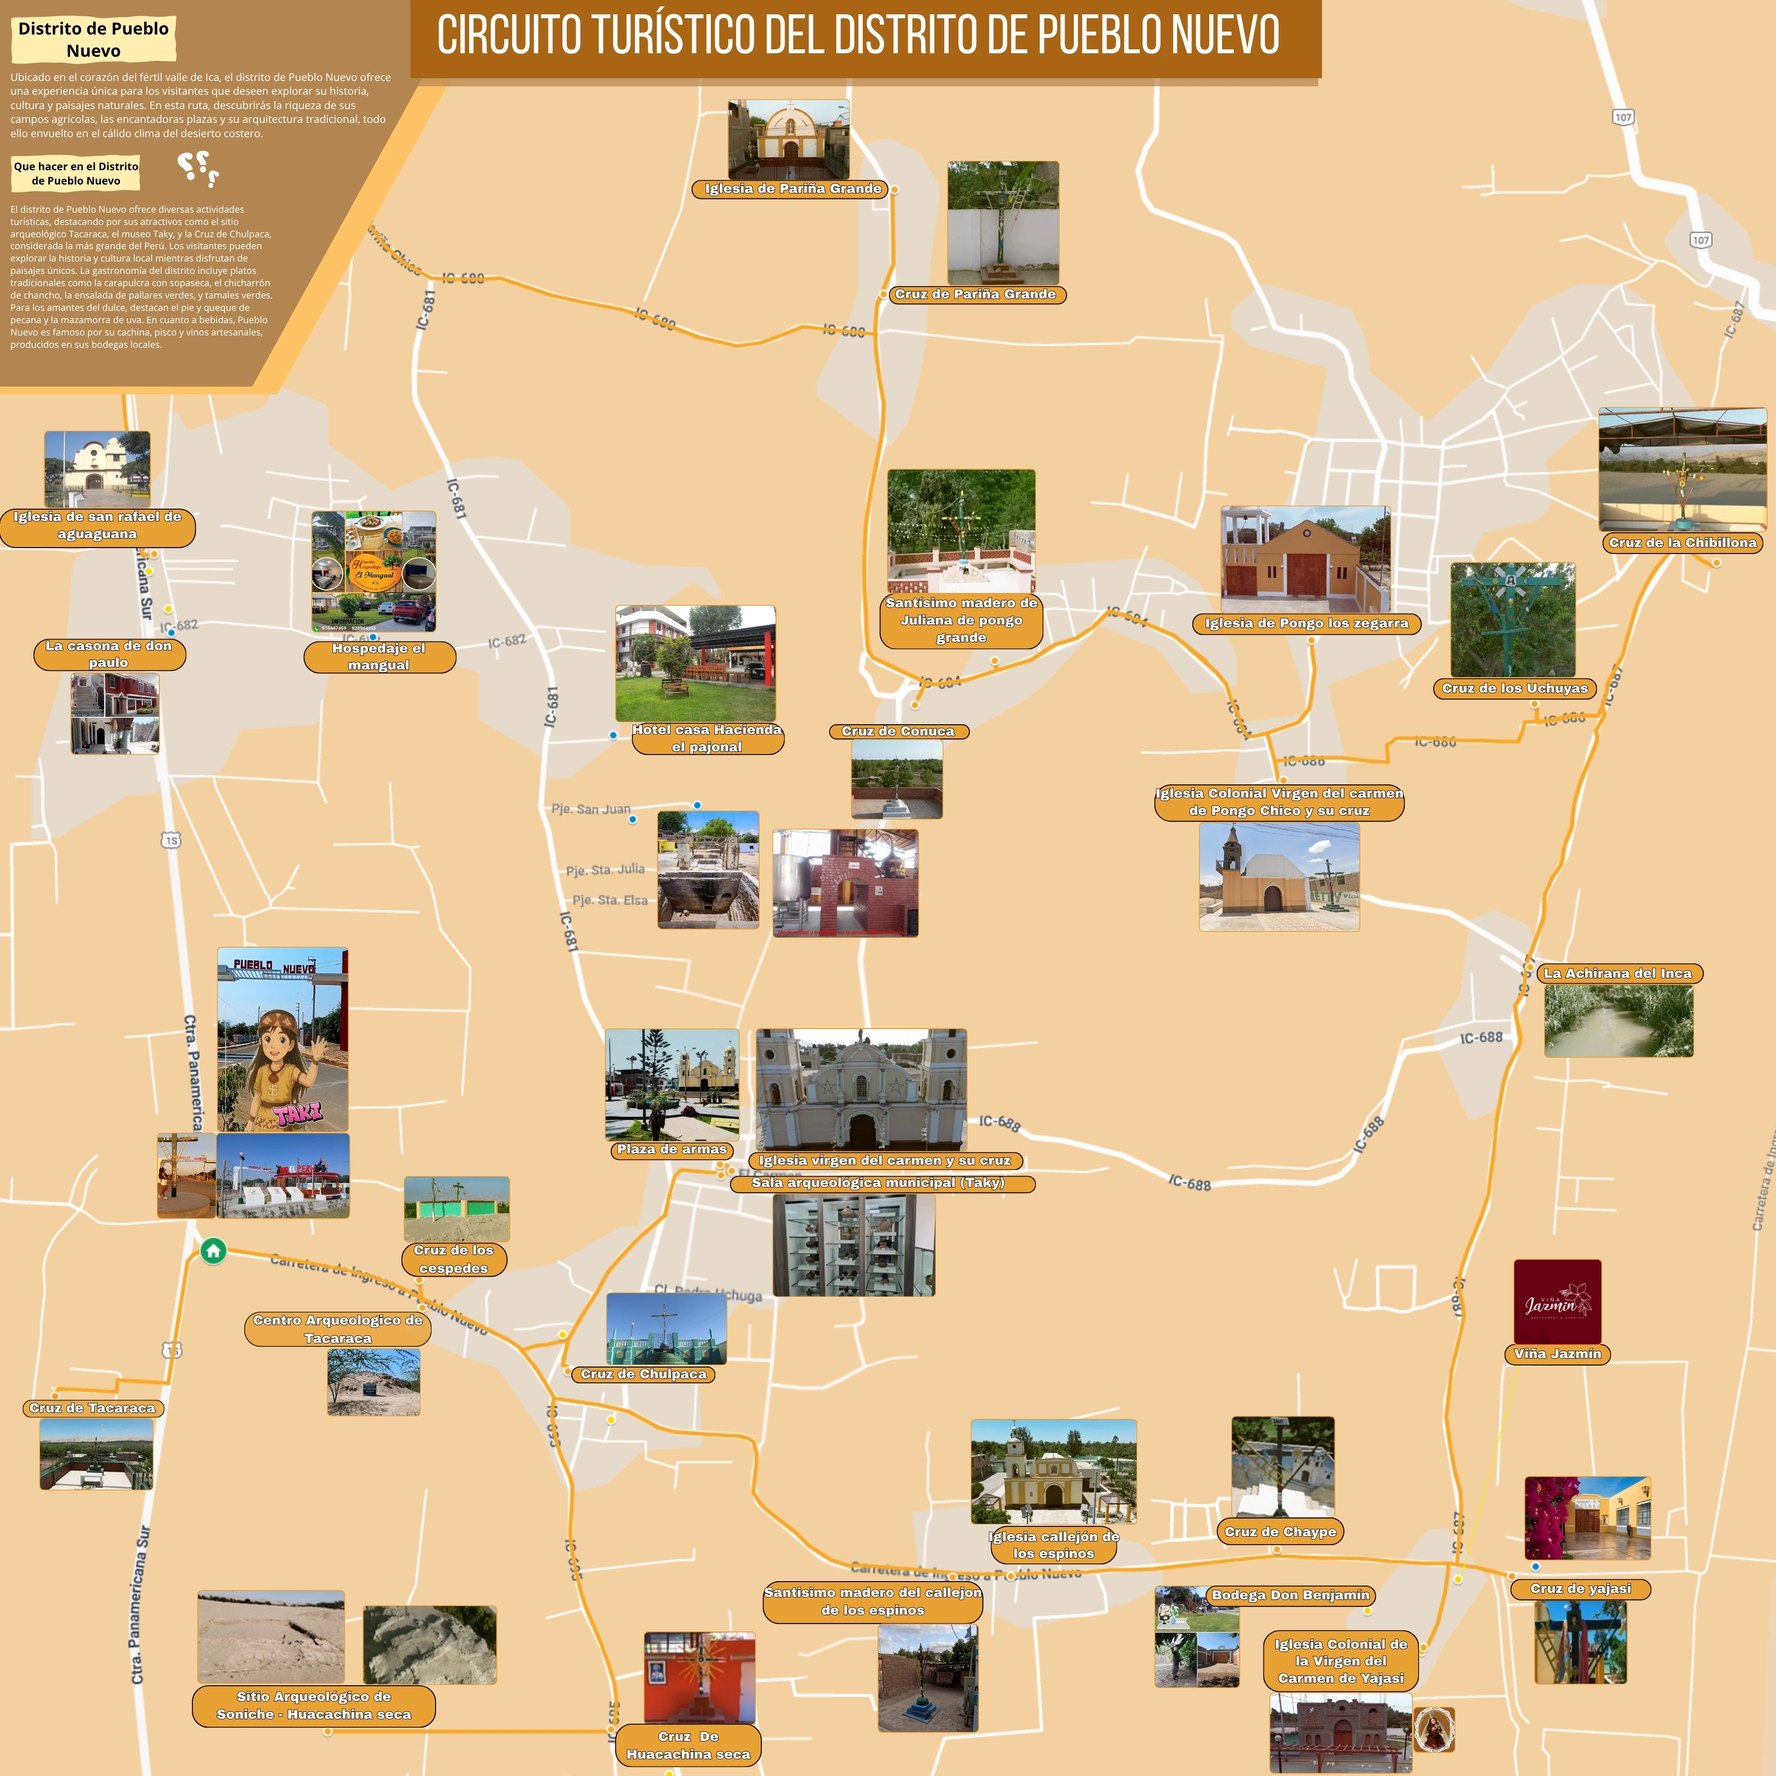
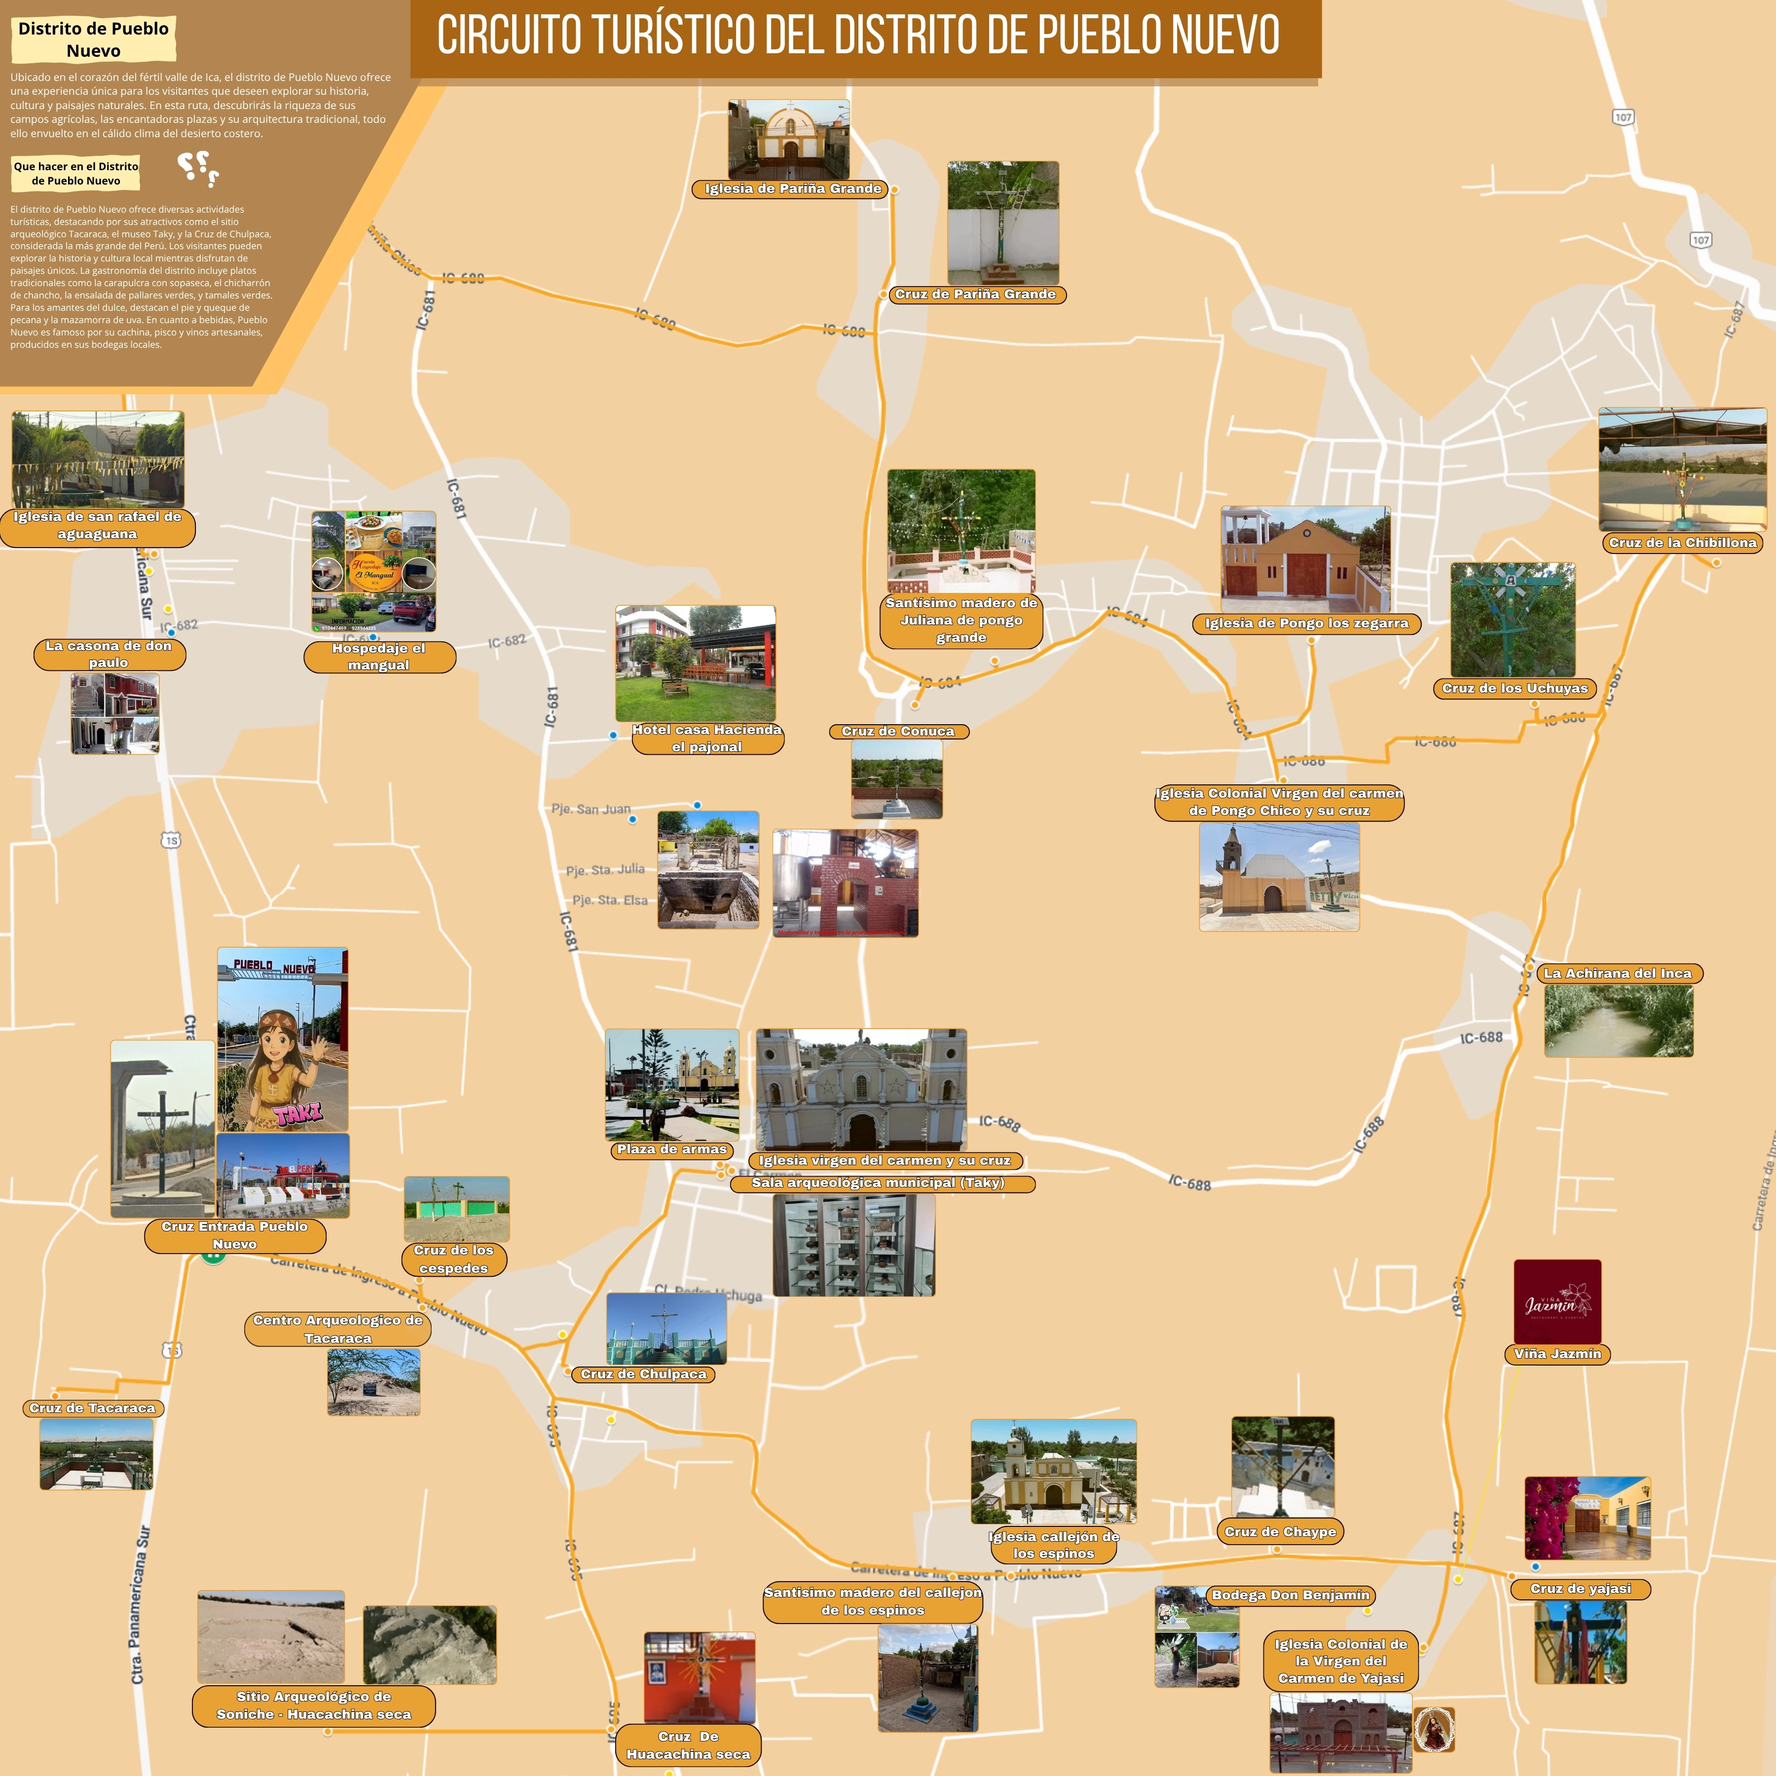
Imagenes cargadas

Changed region(s): [[0.0622, 0.56, 0.1867, 0.7156], [0.0, 0.2178, 0.1244, 0.3111]]

diff --git a/src/components/AttractionDetails.tsx b/src/components/AttractionDetails.tsx
@@ -7,7 +7,7 @@ import cruzTacaraca from "../assets/images/CRUZ DE TACARACA.webp";
 import cruzChulpaca from "../assets/images/CHULPACA.webp";
 import cruzHuacachina from "../assets/images/CRUZ DE HUACACHINA SECA.webp";
 import huacachinaSeca from "../assets/images/huacachina seca.webp";
-import iglesiaEspinos from "../assets/images/IGLESIA CALLEJON DE LOS ESPINOS 2.webp";
+import iglesiaEspinos from "../assets/images/IGLESIA CALLEJON DE LOS ESPINOS 3.webp";
 import casonaEspinos from "../assets/images/CRUZ CALLEJON DE LOS ESPINOS.webp";
 import iglesiaYajasi from "../assets/images/IGLESIA DE YAJASI.webp";
 import cruzYajasi from "../assets/images/CRUZDEYAJASI.webp";
@@ -53,7 +53,7 @@ const attractions: Attraction[] = [
   },
   {
     id: 3,
-    name: "Museo municipal (taky)",
+    name: "Sala Arqueológica Municipal (Taky)",
     description: "Corazón social del distrito",
     details:
       "Por el CLIII aniversario de creación política del histórico distrito de Pueblo Nuevo, Ica, se inauguró la Sala de Exposición de la Cultura, encabezada por el alcalde Hebert Gonzáles Arcos; allí se conservan restos de las culturas Nasca e Ica, como cerámicas y textilerías.",
@@ -64,7 +64,7 @@ const attractions: Attraction[] = [
   },
   {
     id: 4,
-    name: "Sitio Arqueologico de Tacaraca",
+    name: "Centro Arqueológico de Tacaraca",
     description: "Auténtica experiencia comercial",
     details: `A 5 km aproximadamente se encuentra
 ubicado a la ciudad de Ica y a 500 metros
@@ -84,6 +84,36 @@ alrededores.`,
   },
   {
     id: 5,
+    name: "Sitio arqueológico de soniche -Huacachina seca",
+    description: "Auténtica experiencia comercial",
+    details: `Es un recinto arqueológico y un lugar donde
+se puede explorar con toda la familia y es un
+lugar tranquilo para despejarse. Hoy en día
+el sitio arqueológico está en excavación
+donde se encontraron restos de cerámica y
+textileria perteneciente a la cultura ica`,
+    image: huacachinaSeca,
+    type: "Comercio",
+    bestTime: "Mañana",
+    difficulty: "Fácil",
+  },
+    {
+    id: 9,
+    name: "La Iglesia Callejon de los Espinos",
+    description: "Auténtica experiencia comercial",
+    details: `En el aspecto religioso en esta iglesia
+veneran al patrón de san Antonio de padua
+donde los pobladores del lugar cuentan que
+algunos matrimonios se han consolidado en
+el caserío gracias al patrón de san Antonio
+de Padua.`,
+    image: iglesiaEspinos,
+    type: "Comercio",
+    bestTime: "Mañana",
+    difficulty: "Fácil",
+  },
+  {
+    id: 8,
     name: "Cruz de Tacaraca",
     description: "Auténtica experiencia comercial",
     details: `
@@ -113,52 +143,25 @@ vivas las tradiciones religiosas del distrito.
     bestTime: "Mañana",
     difficulty: "Fácil",
   },
-  {
-    id: 7,
-    name: "Cruz de Huacachina Seca",
+    {
+    id: 16,
+    name: `Cruz de la
+Chibillona`,
     description: "Auténtica experiencia comercial",
-    details: `La Cruz de Huacachina seca es un símbolo
-religioso ubicado el caserío de Huacachina
-seca donde los pobladores le rinden
-homenaje cada mes de mayo y es venerado
-por los pobladores del lugar.
-      `,
-    image: cruzHuacachina,
+    details: `Este santísimo madero antiguamente
+los que provenían de las partes altas
+de Ica enterraban a sus muertos en
+ese lugar, cuando construyeron esta
+cruz al remover la arena se
+encontraron restos principalmente de
+niños enterrados. Hoy en día la familia
+Altamirano muy cerca de su predio
+cuida este madero.`,
+    image: cruzChibillona,
     type: "Comercio",
     bestTime: "Mañana",
     difficulty: "Fácil",
   },
-  {
-    id: 8,
-    name: "Sitio arqueológico de soniche -Huacachina seca",
-    description: "Auténtica experiencia comercial",
-    details: `Es un recinto arqueológico y un lugar donde
-se puede explorar con toda la familia y es un
-lugar tranquilo para despejarse. Hoy en día
-el sitio arqueológico está en excavación
-donde se encontraron restos de cerámica y
-textileria perteneciente a la cultura ica`,
-    image: huacachinaSeca,
-    type: "Comercio",
-    bestTime: "Mañana",
-    difficulty: "Fácil",
-  },
-  {
-    id: 9,
-    name: "La Iglesia Callejon de los Espinos",
-    description: "Auténtica experiencia comercial",
-    details: `En el aspecto religioso en esta iglesia
-veneran al patrón de san Antonio de padua
-donde los pobladores del lugar cuentan que
-algunos matrimonios se han consolidado en
-el caserío gracias al patrón de san Antonio
-de Padua.`,
-    image: iglesiaEspinos,
-    type: "Comercio",
-    bestTime: "Mañana",
-    difficulty: "Fácil",
-  },
-
   {
     id: 11,
     name: "Santisimo Madero de Callejon de los Espinos",
@@ -169,21 +172,6 @@ navarro desde el año de 1981 se venera esa
 cruz, se venera esta cruz hasta la
 actualidad.`,
     image: casonaEspinos,
-    type: "Comercio",
-    bestTime: "Mañana",
-    difficulty: "Fácil",
-  },
-  {
-    id: 12,
-    name: "Iglesia Colonial de la Virgen del Carmen de Yajasi",
-    description: "Auténtica experiencia comercial",
-    details: `La iglesia colonial de yajasi esta iglesia se
-construyo en honor a la santisima virgen del
-carmen de yajasi cuya festividad se realiza
-desde el 04 de setiembre primer dia de
-festividad hasta el 22 de setiembre dia
-central.`,
-    image: iglesiaYajasi,
     type: "Comercio",
     bestTime: "Mañana",
     difficulty: "Fácil",
@@ -203,8 +191,23 @@ religiosa entre los devotos locales`,
     bestTime: "Mañana",
     difficulty: "Fácil",
   },
+{
+    id: 7,
+    name: "Cruz de Huacachina Seca",
+    description: "Auténtica experiencia comercial",
+    details: `La Cruz de Huacachina seca es un símbolo
+religioso ubicado el caserío de Huacachina
+seca donde los pobladores le rinden
+homenaje cada mes de mayo y es venerado
+por los pobladores del lugar.
+      `,
+    image: cruzHuacachina,
+    type: "Comercio",
+    bestTime: "Mañana",
+    difficulty: "Fácil",
+  },
   {
-    id: 13,
+    id: 14,
     name: `Santísimo Madero de la
 Juliana de pongo
 Grande`,
@@ -229,43 +232,6 @@ todos los años en el mes de mayo.`,
     bestTime: "Mañana",
     difficulty: "Fácil",
   },
-  {
-    id: 14,
-    name: `La Achirana del
-Inca`,
-    description: "Auténtica experiencia comercial",
-    details: `Es un canal de regadío Incaico, que las
-versiones legendarias le asignan 600 años
-de antigüedad.
-Según la leyenda, el Inca Pachacútec
-ordenó su construcción como prueba del
-amor que despertó en él una joven de la
-localidad.`,
-    image: achiranaInca,
-    type: "Comercio",
-    bestTime: "Mañana",
-    difficulty: "Fácil",
-  },
-  {
-    id: 15,
-    name: `Cruz de la
-Chibillona`,
-    description: "Auténtica experiencia comercial",
-    details: `Este santísimo madero antiguamente
-los que provenían de las partes altas
-de Ica enterraban a sus muertos en
-ese lugar, cuando construyeron esta
-cruz al remover la arena se
-encontraron restos principalmente de
-niños enterrados. Hoy en día la familia
-Altamirano muy cerca de su predio
-cuida este madero.`,
-    image: cruzChibillona,
-    type: "Comercio",
-    bestTime: "Mañana",
-    difficulty: "Fácil",
-  },
-
   {
     id: 17,
     name: `Cruz de los
@@ -313,7 +279,7 @@ Nuevo.`,
     difficulty: "Fácil",
   },
   {
-    id: 17,
+    id: 19,
     name: `Cruz de Pariña
 Grande`,
     description: "Auténtica experiencia comercial",
@@ -327,6 +293,38 @@ maderos hay cada
 mayordomo por familia asume
 el cargo.`,
     image: cruzParinaGrande,
+    type: "Comercio",
+    bestTime: "Mañana",
+    difficulty: "Fácil",
+  },
+  {
+    id: 12,
+    name: "Iglesia Colonial de la Virgen del Carmen de Yajasi",
+    description: "Auténtica experiencia comercial",
+    details: `La iglesia colonial de yajasi esta iglesia se
+construyo en honor a la santisima virgen del
+carmen de yajasi cuya festividad se realiza
+desde el 04 de setiembre primer dia de
+festividad hasta el 22 de setiembre dia
+central.`,
+    image: iglesiaYajasi,
+    type: "Comercio",
+    bestTime: "Mañana",
+    difficulty: "Fácil",
+  },
+  {
+    id: 15,
+    name: `La Achirana del
+Inca`,
+    description: "Auténtica experiencia comercial",
+    details: `Es un canal de regadío Incaico, que las
+versiones legendarias le asignan 600 años
+de antigüedad.
+Según la leyenda, el Inca Pachacútec
+ordenó su construcción como prueba del
+amor que despertó en él una joven de la
+localidad.`,
+    image: achiranaInca,
     type: "Comercio",
     bestTime: "Mañana",
     difficulty: "Fácil",
@@ -351,7 +349,7 @@ export default function AttractionDetails() {
         </p>
       </div>
 
-      <div className="grid grid-cols-1 md:grid-cols-2  gap-4">
+      <div className="grid grid-cols-1 md:grid-cols-2 lg:grid-cols-3  gap-4">
         {attractions.map((attraction) => (
           <div
             key={attraction.id}

diff --git a/src/data/attractions.ts b/src/data/attractions.ts
@@ -8,7 +8,6 @@ export interface Attraction {
   details: string;
 }
 // === Atractivos y lugares turísticos ===
-import Circuito from "../assets/images/Circuito.webp";
 import LA_ACHIRANA_DEL_INCA from "../assets/images/LA ACHIRANA DEL INCA.webp";
 import HUACACHINA_SECA from "../assets/images/huacachina seca.webp";
 import TACARACA from "../assets/images/tacaraca.webp";
@@ -23,7 +22,6 @@ import PUEBLONUEVO3 from "../assets/images/PUEBLO NUEVO 3.webp"
 import PUEBLONUEVO4 from "../assets/images/PUEBLO NUEVO 4.webp"
 import PUEBLONUEVO5 from "../assets/images/PUEBLO NUEVO 5.webp"
 import PUEBLONUEVO6 from "../assets/images/PUEBLO NUEVO 6.webp";
-import ANIVERSARIOPUEBLONUEVO from "../assets/images/ANIVERSARIO PUEBLO NUEVO.webp";
 
 // === Alojamiento ===
 import HospedajeMangual1 from "../assets/images/Hospedaje de Mangual.webp";
@@ -44,14 +42,14 @@ import IGLESIAPONGOZEGARRA from "../assets/images/IGLESIA PONGO DE LOS ZEGARRA.w
 import IGLESIAPONGOZEGARRA2 from "../assets/images/IGLESIA PONGO DE LOS ZEGARRA2.webp";
 import IGLESIAPONGOZEGARRA3 from "../assets/images/IGLESIA PONGO DE LOS ZEGARRA3.webp";
 import IGLESIAPONGOCHICO from "../assets/images/IGLESIA COLONIAL VIRGEN DEL CARMEN PONGO CHICO.webp";
-import IGLESIASANRAFAEL from "../assets/images/iglesia de san rafael de aguaguana.webp";
+import IGLESIASANRAFAEL from "../assets/images/IGLESIADESANRAFAELDEAGUAGUANA2.webp";
 import IGLESIACALLEJONESPINOS1 from "../assets/images/IGLESIA CALLEJON DE LOS ESPINOS 2.webp";
 import IGLESIACALLEJONESPINOS2 from "../assets/images/IGLESIA CALLEJON DE LOS ESPINOS 2.webp";
 import IGLESIACALLEJONESPINOS3 from "../assets/images/IGLESIA CALLEJON DE LOS ESPINOS 3.webp";
 import DONPAULO from "../assets/images/LA CASONA DE DON PAULO.webp";
 
 // === Cruces ===
-import CRUZENTRADA from "../assets/images/CRUZENTRADA.webp";
+import CRUZENTRADA from "../assets/images/cruzentradapueblonuevo.webp";
 import CRUZPARINAGRANDE1 from "../assets/images/CRUZ DE PARIÑA GRANDE.webp";
 import CRUZPARINAGRANDE2 from "../assets/images/CRUZ DE PARIÑA GRANDE 2.webp";
 import CRUZCHIBILLONA1 from "../assets/images/CRUZ DE LA CHIBILLONA.webp";
@@ -68,7 +66,6 @@ import CRUZTACARACA from "../assets/images/CRUZ DE TACARACA.webp";
 import CRUZTACARACA2 from "../assets/images/CRUZ DE TACARACA 2.webp";
 import CRUZHUACACHINASECA1 from "../assets/images/CRUZ DE HUACACHINA SECA.webp";
 import CRUZHUACACHINASECA2 from "../assets/images/CRUZ DE HUACACHINA SECA2.webp";
-import CRUZESPINOS from "../assets/images/CRUZ CALLEJON DE LOS ESPINOS.webp";
 import CRUZPONGOGRANDE from "../assets/images/CRUZ DE PONGO GRANDE.webp";
 import CRUZCONUCA from "../assets/images/CRUZ DE CONUCA.webp";
 import CRUZYAJASI from "../assets/images/CRUZDEYAJASI.webp";
@@ -76,7 +73,6 @@ import CRUZCALLEJONDELOSESPINOS from "../assets/images/CRUZ CALLEJON DE LOS ESPI
 
 // === Museos y cultura ===
 import MUSEOSITIO from "../assets/images/MUSEO DE SITIO.webp";
-import TAKY from "../assets/images/MUSEO DE SITIO.webp";
 
 // === Restaurantes y gastronomía ===
 import RESTAURANTMARIA from "../assets/images/RESTAURANTEMARIAROSA1.webp";
@@ -93,10 +89,6 @@ import BODEGASANISIDRO2 from "../assets/images/BODEGASANISIDRO2.webp";
 import VINAJAZMIN1 from "../assets/images/VIÑAJAZMIN1.webp";
 import VINAJAZMIN2 from "../assets/images/VIÑAJAZMIN2.webp";
 
-// === Personajes, íconos y extras ===
-import MUNICIPIOLOGO from "../assets/images/cropped-logo-muni-3-245x300.webp";
-import MUÑECO from "../assets/images/muñeco.webp";
-import DEFAULT from "../assets/images/default.jpg";
 export const attractions: Attraction[] = [
   {
     id: 1,
@@ -130,7 +122,7 @@ export const attractions: Attraction[] = [
     name: "Cruz de Entrada",
     category: "Cruz",
     description: "Cruz que da la bienvenida en la entrada de pueblo nuevo",
-    coordinates: [-14.128628, -75.716247],
+    coordinates: [-14.128523, -75.716388],
     images: [CRUZENTRADA],
     details: "Un ambiente familiar en un entorno natural tranquilo.",
   },
@@ -472,9 +464,40 @@ export const attractions: Attraction[] = [
     name: "Entrada al Distrito de Pueblo Nuevo",
     category: "Atractivo turístico",
     description: "Entrada histórica a Pueblo Nuevo",
-    coordinates: [-14.128727, -75.716268],
+    coordinates: [-14.128755, -75.715994],
     images: [ENTRADAPUEBLONUEVO],
     details:
       "La entrada principal a Pueblo Nuevo, un lugar de gran significancia cultural y histórica.",
   },
+  {
+    id: 40,
+    name: "Bodega San Isidro",
+    category: "Atractivo turístico",
+    description: "Viñedo y centro de esparcimiento",
+    coordinates: [-14.134673237839719, -75.68960612698883],
+    images: [BODEGASANISIDRO1,BODEGASANISIDRO2],
+    details:
+      "Centro de esparcimiento con viñedos, ideal para pasar un día relajante.",
+  },
+  {
+    id: 41,
+    name: "Cruz de Tacaraca",
+    category: "Atractivo turístico",
+    description: "Monumento religioso de la región",
+    coordinates: [-14.13153, -75.71913],
+    images: [CRUZTACARACA,CRUZTACARACA2],
+    details:
+      "Cruz en la localidad de tacaraca, ideal para quienes disfrutan de la tranquilidad del campo.",
+  },
+  {
+    id: 42,
+    name: "Cruz de Yajasi",
+    category: "Atractivo turístico",
+    description: "Monumento religioso de la región",
+    coordinates: [-14.135, -75.69013],
+    images: [CRUZYAJASI],
+    details:
+      "Perfecto para quienes buscan descansar en plena naturaleza.",
+  },
+  
 ];

diff --git a/src/data/comidaData.ts b/src/data/comidaData.ts
@@ -376,7 +376,7 @@ export const postresData: Attraction[] = [
   },
   {
     id: 17,
-    name: "Tejas y Chocotejas",
+    name: "Tejas y Chocotejas de Pecana",
     description: "Dulces representativos de Ica",
     details:
       "Dulces rellenos con manjar y pecanas o frutas, cubiertos en chocolate o glasé.",
